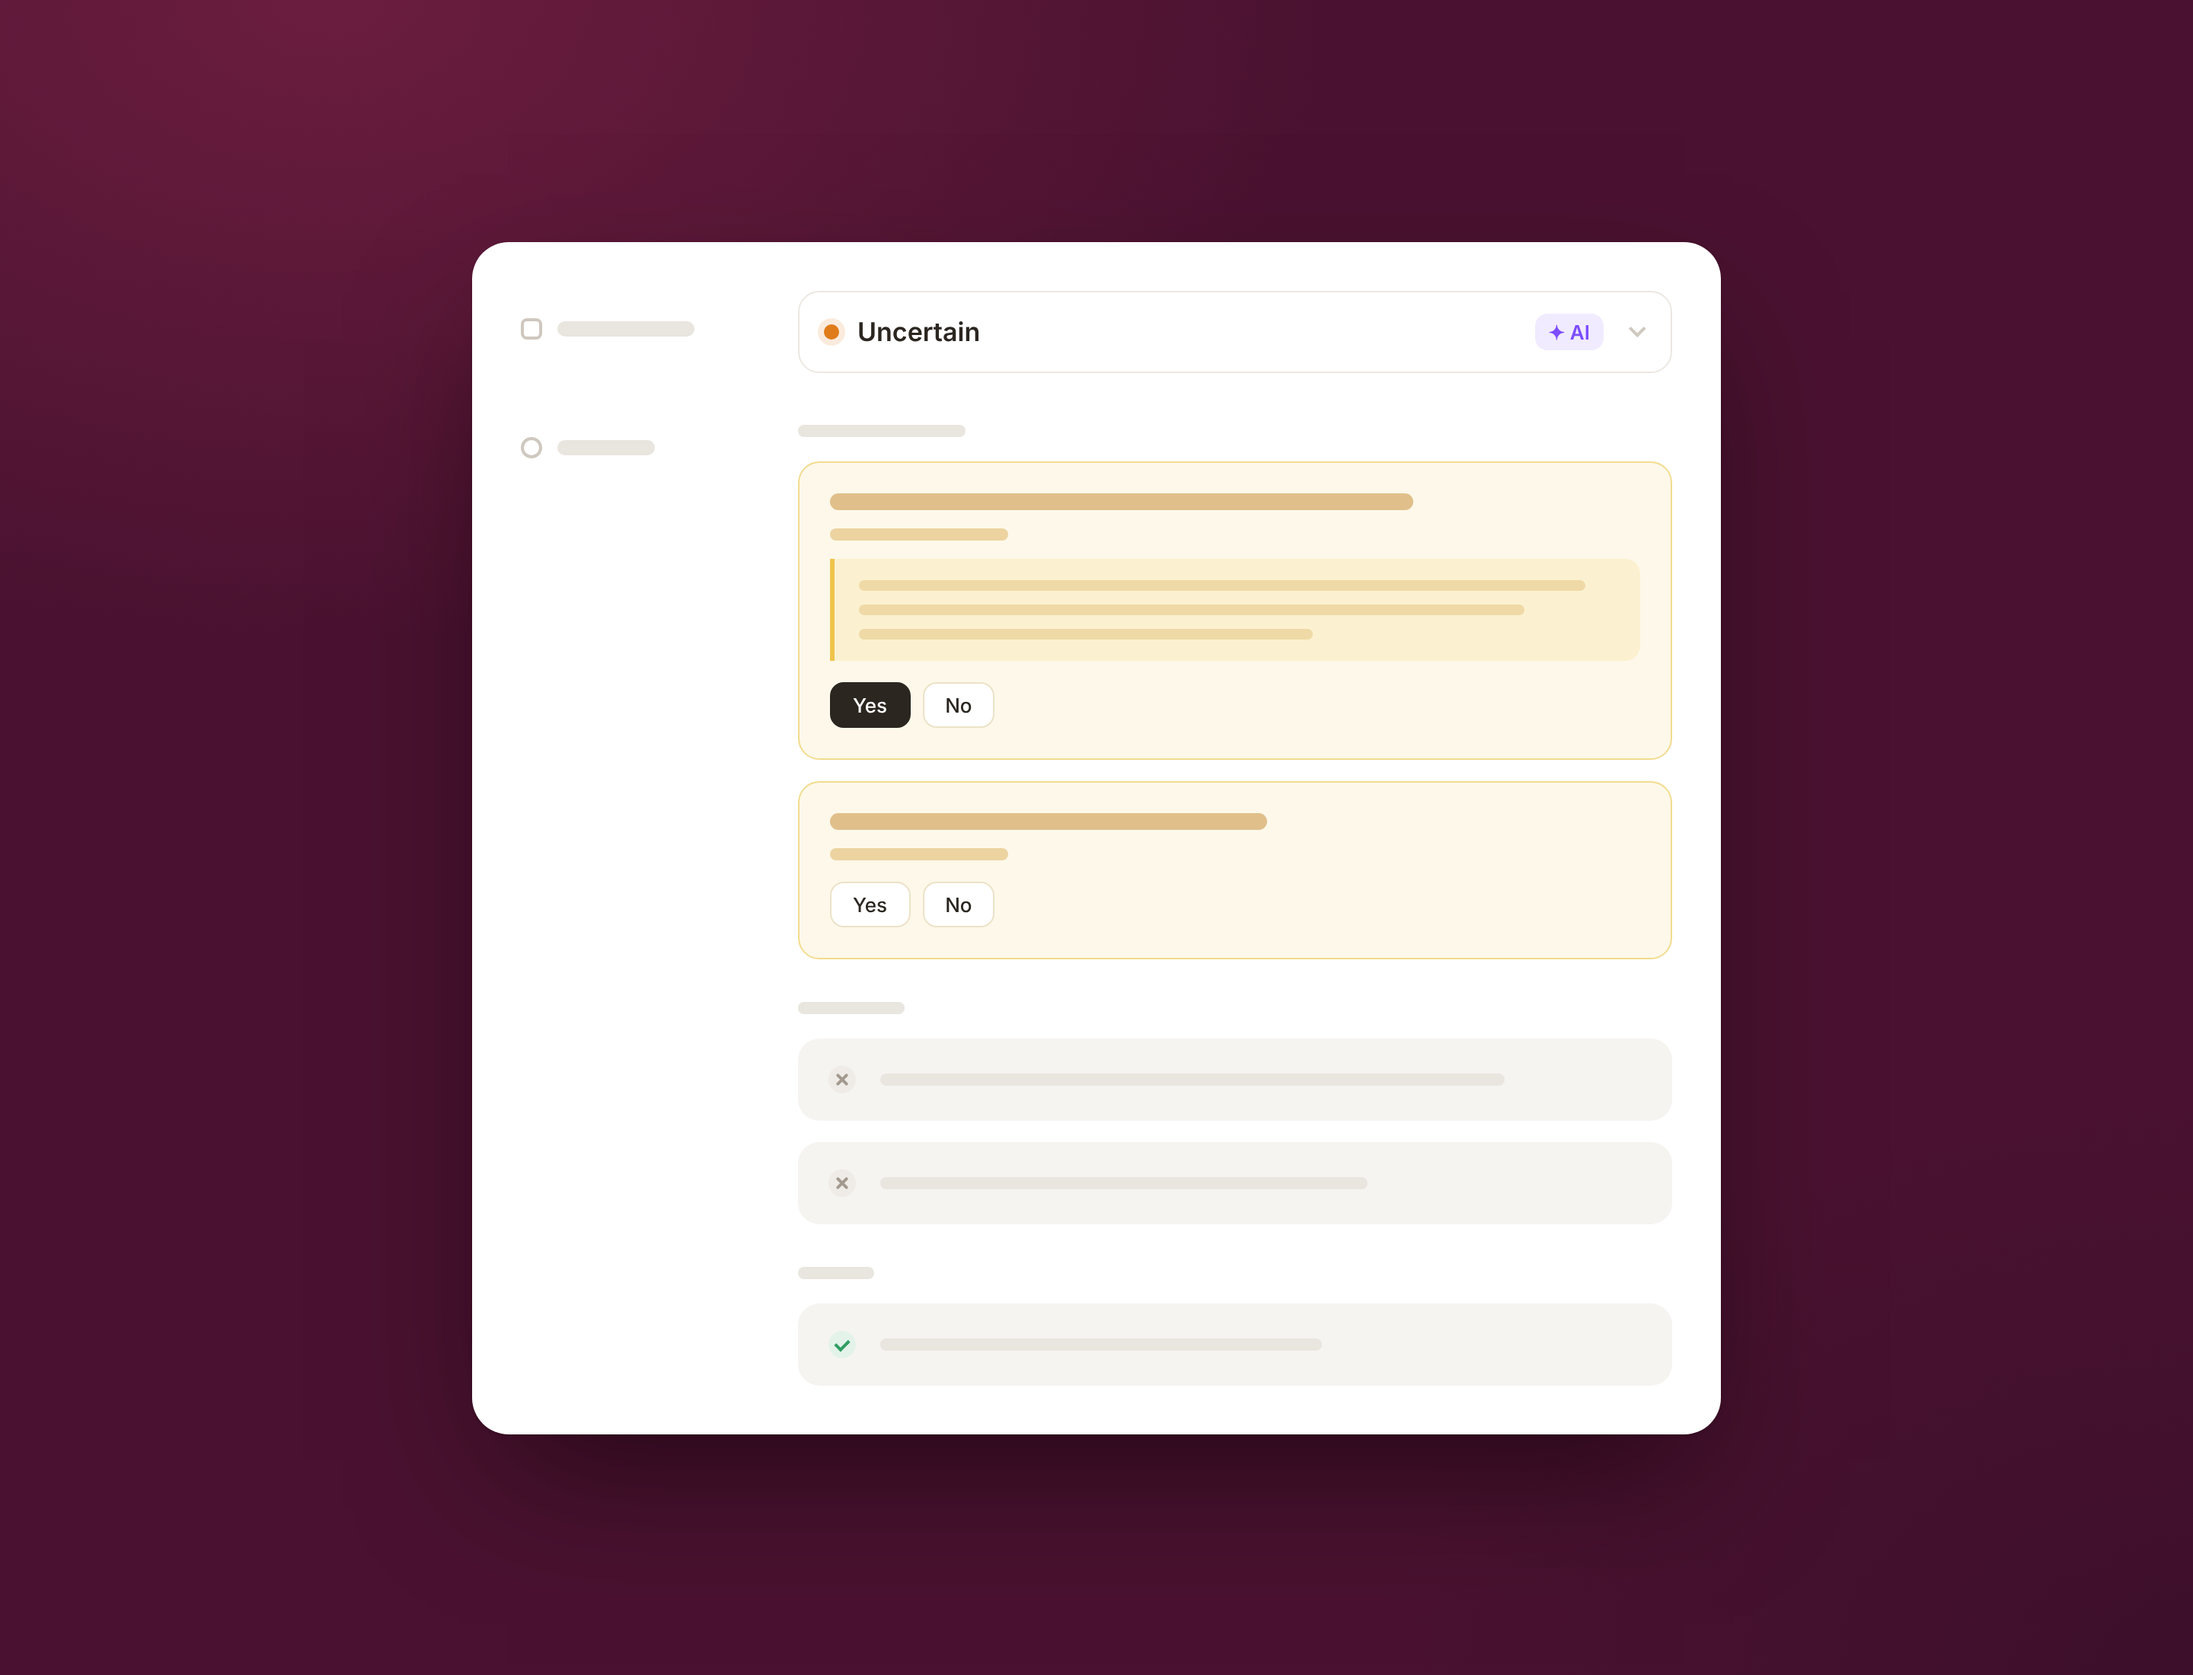
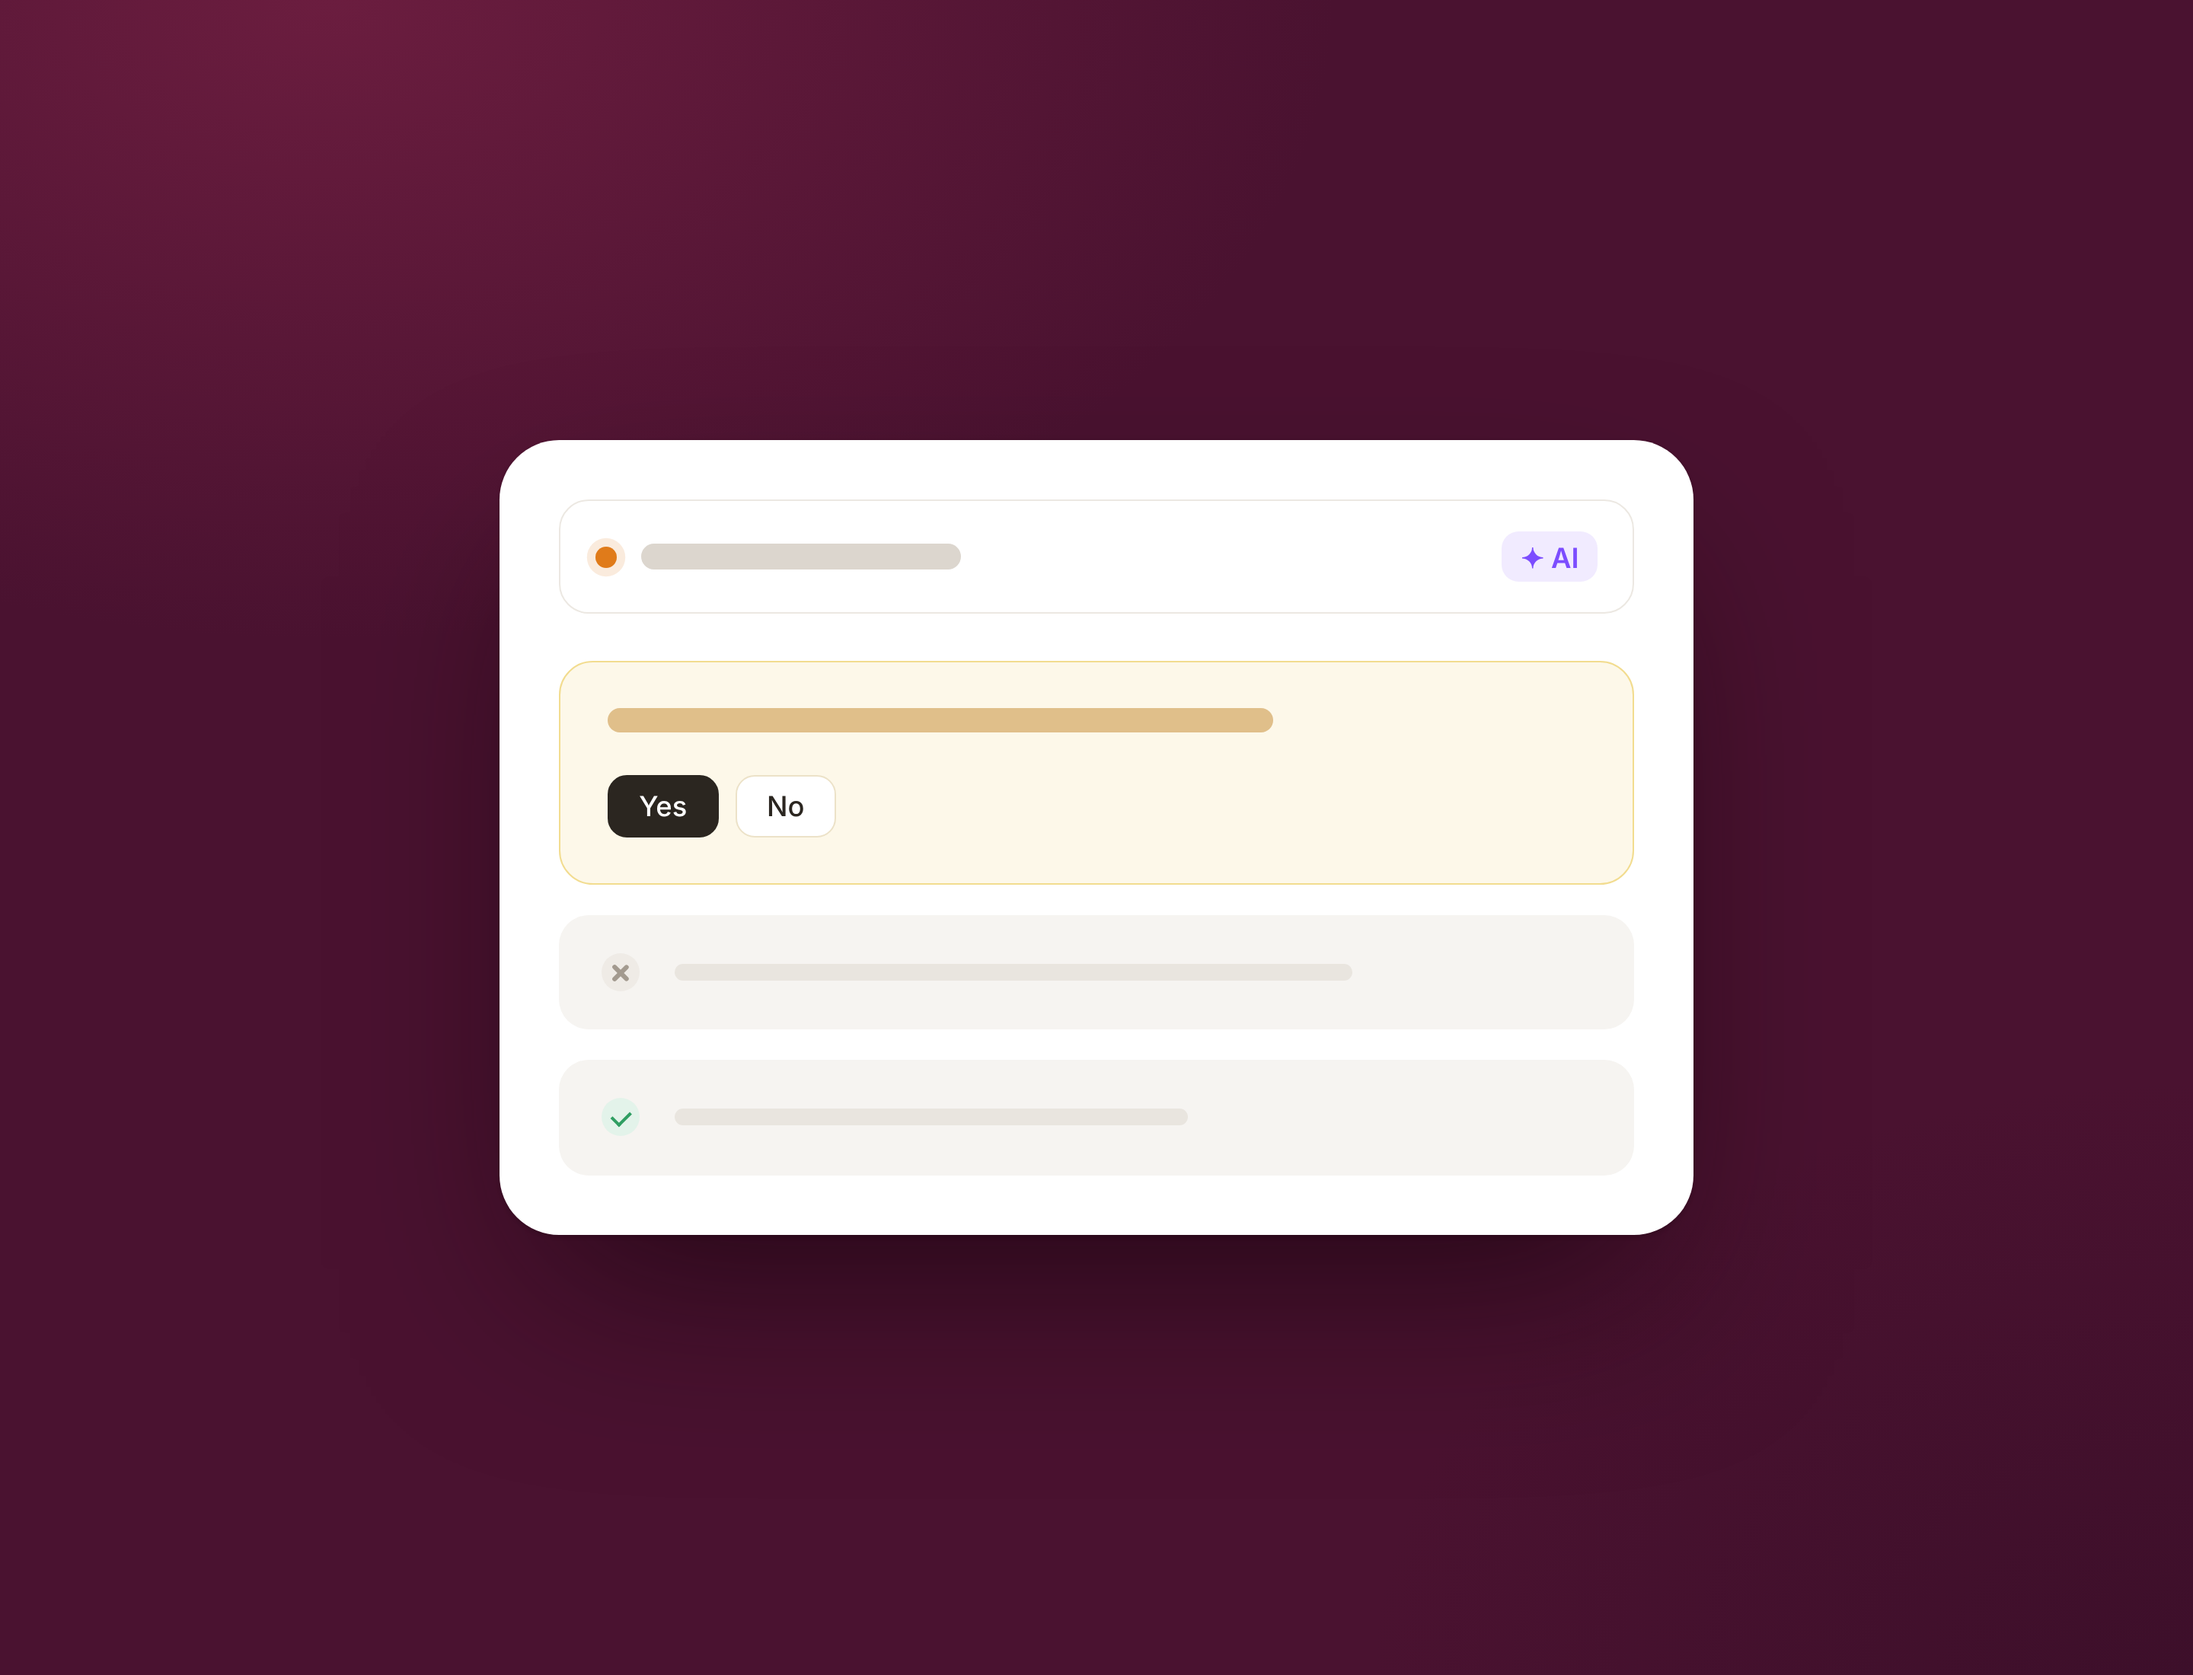
Hero: strip abstract variant to four elements
Claude-Session: https://claude.ai/code/session_01W7LDHRCM9QrS6rg3McaD21

Changed region(s): [[0.1875, 0.1236, 0.8125, 0.8655]]

diff --git a/hero/criteria-determination-abstract.html b/hero/criteria-determination-abstract.html
@@ -20,9 +20,9 @@
     display: grid; place-items: center; padding: 64px 16px; -webkit-font-smoothing: antialiased;
   }
   .card {
-    width: min(820px, 100%); background: var(--card); border-radius: 24px; padding: 32px;
+    width: min(560px, 100%); background: var(--card); border-radius: 28px; padding: 28px; zoom: 1.4;
     box-shadow: 0 1px 2px rgba(20,0,10,.2), 0 40px 90px -24px rgba(15,0,8,.65);
-    display: grid; grid-template-columns: 150px 1fr; gap: 24px 32px;
+    display: flex; flex-direction: column; gap: 14px;
   }
   .bar { height: 10px; border-radius: 99px; background: var(--bar); }
   .label { display: flex; align-items: center; gap: 10px; padding-top: 18px; align-self: start; }
@@ -33,11 +33,11 @@
   }
   .dot { width: 10px; height: 10px; border-radius: 99px; background: var(--dot); box-shadow: 0 0 0 4px rgba(224,123,26,.15); }
   .grow { flex: 1; }
-  .ai { background: var(--ai-bg); color: var(--ai-fg); font-weight: 600; font-size: 13px; border-radius: 8px; padding: 4px 9px; }
+  .ai { margin-left: auto; background: var(--ai-bg); color: var(--ai-fg); font-weight: 600; font-size: 13px; border-radius: 8px; padding: 4px 9px; }
   .chev { width: 8px; height: 8px; border-right: 2px solid var(--bar-strong); border-bottom: 2px solid var(--bar-strong); transform: rotate(45deg) translateY(-3px); margin: 0 4px; }
   .groups { display: flex; flex-direction: column; gap: 14px; }
   .heading { width: 110px; margin: 10px 0 2px; height: 8px; }
-  .missing { background: var(--amber-bg); border: 1px solid var(--amber-border); border-radius: 14px; padding: 20px; display: flex; flex-direction: column; gap: 12px; }
+  .missing { background: var(--amber-bg); border: 1px solid var(--amber-border); border-radius: 16px; padding: 22px; display: flex; flex-direction: column; gap: 18px; margin-top: 8px; }
   .missing .bar { background: var(--amber-bar); }
   .missing .title { background: var(--amber-strong); opacity: .55; height: 11px; }
   .quote { border-left: 3px solid #f0c44c; background: #fbf1d0; border-radius: 0 10px 10px 0; padding: 14px 16px; display: flex; flex-direction: column; gap: 9px; }
@@ -57,37 +57,15 @@
 </head>
 <body>
 <main class="card" aria-label="Criteria determination, abstracted">
-  <div class="label"><span class="ico"></span><span class="bar" style="width:90px"></span></div>
   <div class="select">
-    <span class="dot"></span><span class="grow">Uncertain</span><span class="ai">✦ AI</span><span class="chev"></span>
+    <span class="dot"></span><span class="bar grow" style="max-width:150px;height:12px;background:#dcd6ce"></span><span class="ai">✦ AI</span>
   </div>
-
-  <div class="label"><span class="ico" style="border-radius:99px"></span><span class="bar" style="width:64px"></span></div>
-  <div class="groups">
-    <span class="bar heading"></span>
-    <div class="missing">
-      <span class="bar title" style="width:72%"></span>
-      <span class="bar" style="width:22%;height:8px"></span>
-      <div class="quote">
-        <span class="bar" style="width:96%"></span>
-        <span class="bar" style="width:88%"></span>
-        <span class="bar" style="width:60%"></span>
-      </div>
-      <div class="answers"><span class="pill on">Yes</span><span class="pill">No</span></div>
-    </div>
-    <div class="missing">
-      <span class="bar title" style="width:54%"></span>
-      <span class="bar" style="width:22%;height:8px"></span>
-      <div class="answers"><span class="pill">Yes</span><span class="pill">No</span></div>
-    </div>
-
-    <span class="bar heading" style="width:70px;margin-top:14px"></span>
-    <div class="row"><span class="cross"></span><span class="bar" style="width:82%"></span></div>
-    <div class="row"><span class="cross"></span><span class="bar" style="width:64%"></span></div>
-
-    <span class="bar heading" style="width:50px;margin-top:14px"></span>
-    <div class="row"><span class="check"></span><span class="bar" style="width:58%"></span></div>
+  <div class="missing">
+    <span class="bar title" style="width:68%"></span>
+    <div class="answers"><span class="pill on">Yes</span><span class="pill">No</span></div>
   </div>
+  <div class="row"><span class="cross"></span><span class="bar" style="width:74%"></span></div>
+  <div class="row"><span class="check"></span><span class="bar" style="width:56%"></span></div>
 </main>
 </body>
 </html>
